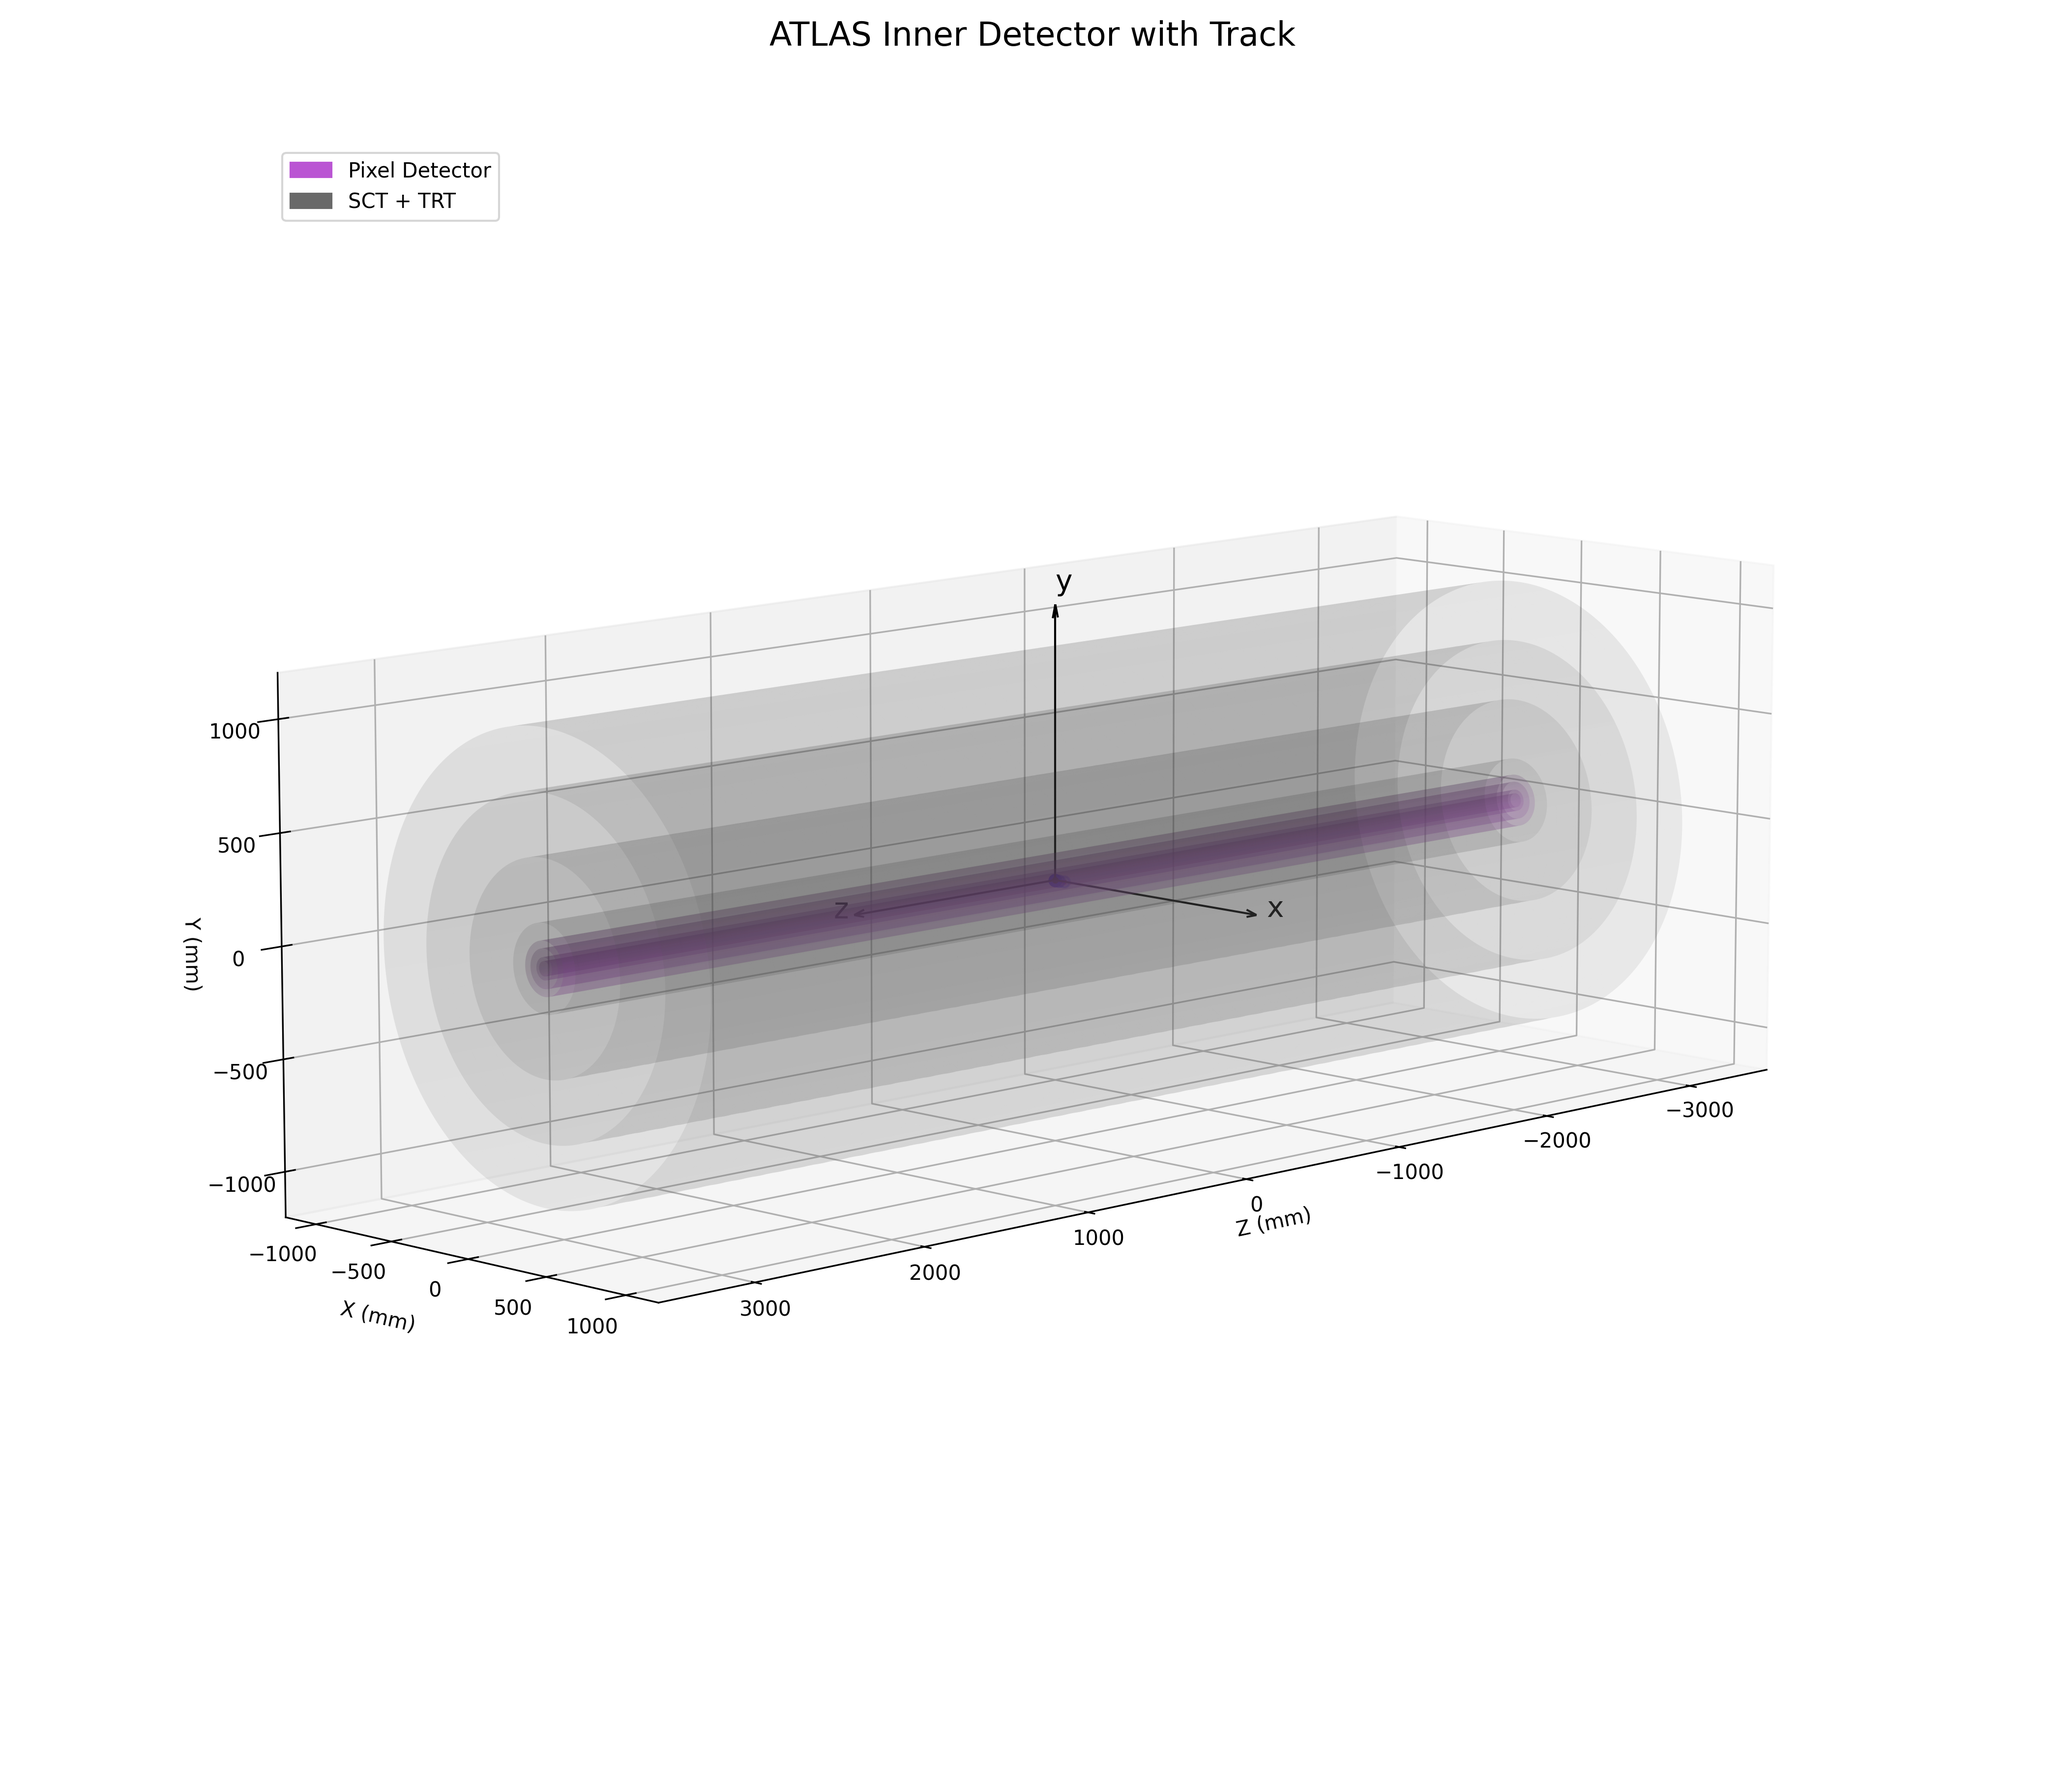
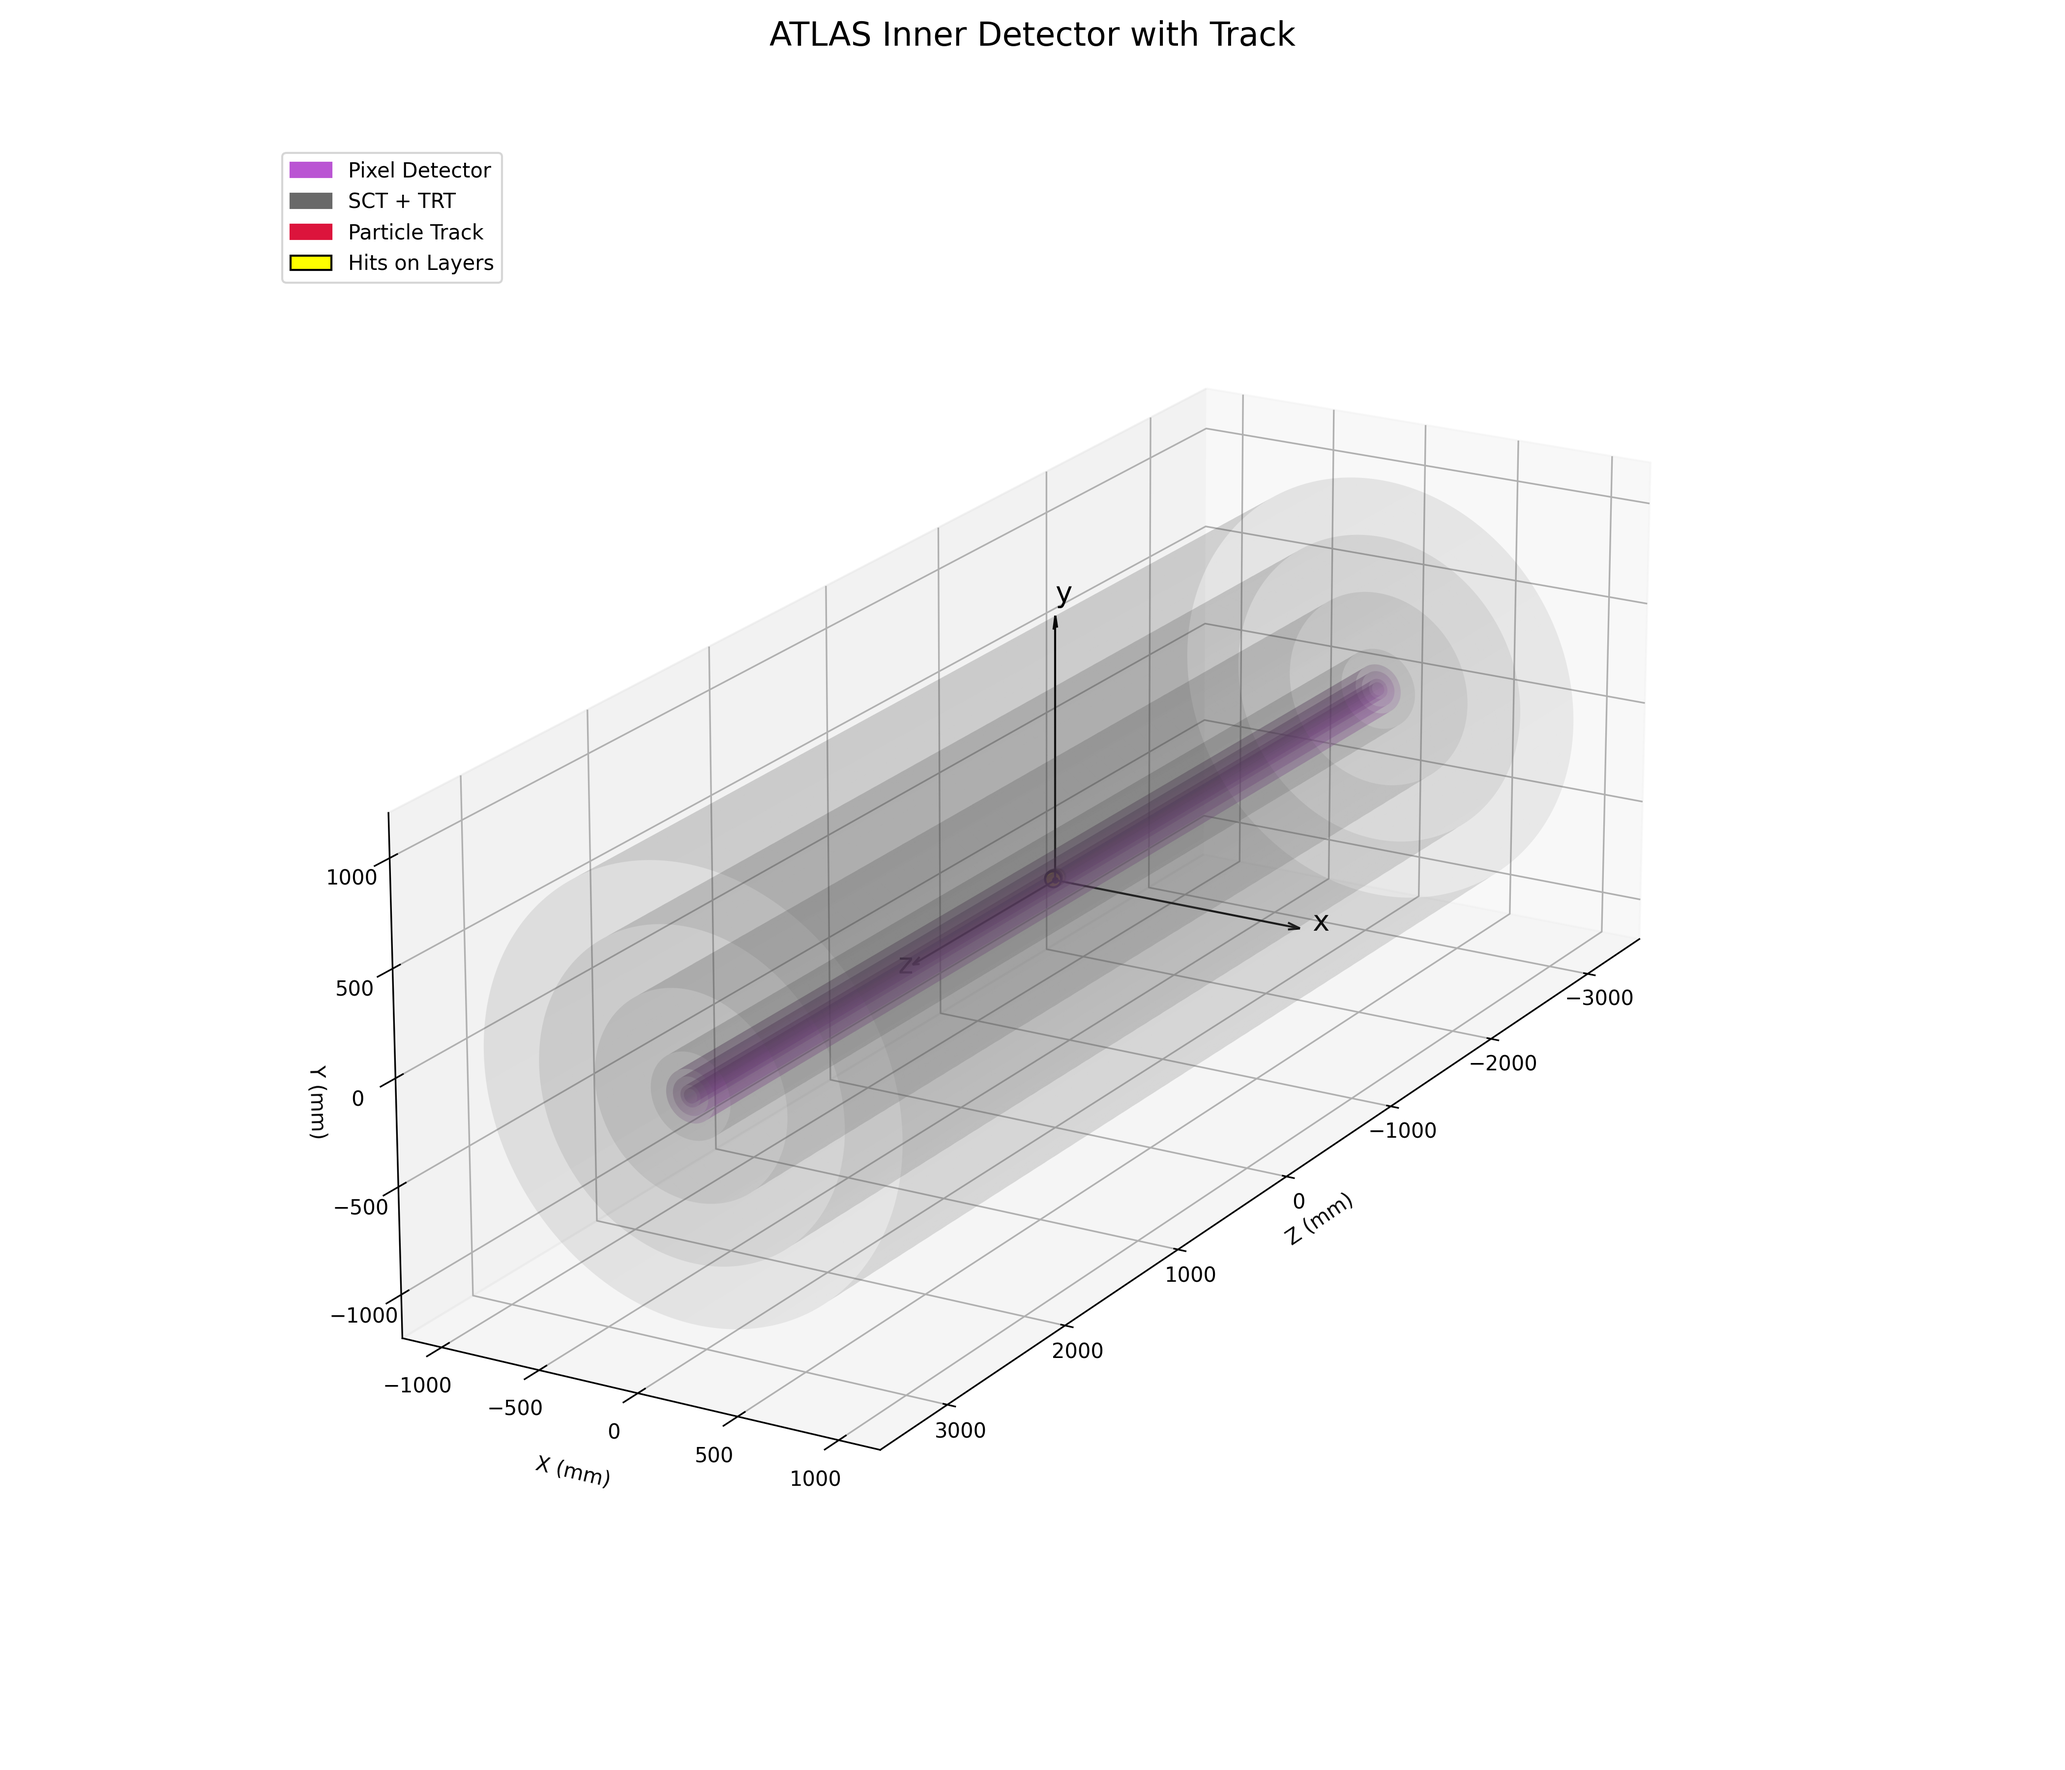
making a best tracks

diff --git a/visualization.py b/visualization.py
@@ -68,19 +68,31 @@ class DetectorSimulation:
     def draw_static_with_track(self, hits_dict, filename="Inner_Detector_with_Track.png"):
         self.layer.draw(self.ax)
         self._setup_axes()
-        self.ax.legend(handles=self.layer.get_legend(), loc='upper left', bbox_to_anchor=(0.05, 0.95))
 
-        # Convert hits (dict of radius: [x, y, z]) into a list of coordinates
+        # Hits
         hit_coords = list(hits_dict.values())
         xs, ys, zs = zip(*hit_coords)
 
-        # Tracer la trajectoire
-        self.ax.plot(xs, ys, zs, color='red', linewidth=2, label='Particle Track')
-        self.ax.scatter(xs, ys, zs, color='blue', s=30)
+        # Tracé amélioré de la trajectoire
+        self.ax.plot(xs, ys, zs, color='crimson', linewidth=3, label='Particle Track')
+        self.ax.scatter(xs, ys, zs, color='yellow', edgecolor='black', s=60, label='Hits on Layers', zorder=10)
+
+        # Mise à jour de la légende
+        legend_elements = self.layer.get_legend()
+        legend_elements.append(Patch(facecolor='crimson', edgecolor='crimson', label='Particle Track'))
+        legend_elements.append(Patch(facecolor='yellow', edgecolor='black', label='Hits on Layers'))
+
+        self.ax.legend(handles=legend_elements, loc='upper left', bbox_to_anchor=(0.05, 0.95))
+
+        # Amélioration visuelle
+        self.ax.set_facecolor('white')
+        self.ax.grid(True, linestyle='--', linewidth=0.5, alpha=0.5)
+        self.ax.view_init(elev=20, azim=30)
 
         plt.tight_layout()
         plt.savefig(filename, dpi=300)
         print(f"Figure saved as: {filename}")
+
 
 if __name__ == "__main__":
     print("-" * 25, "Start", "-" * 25)
